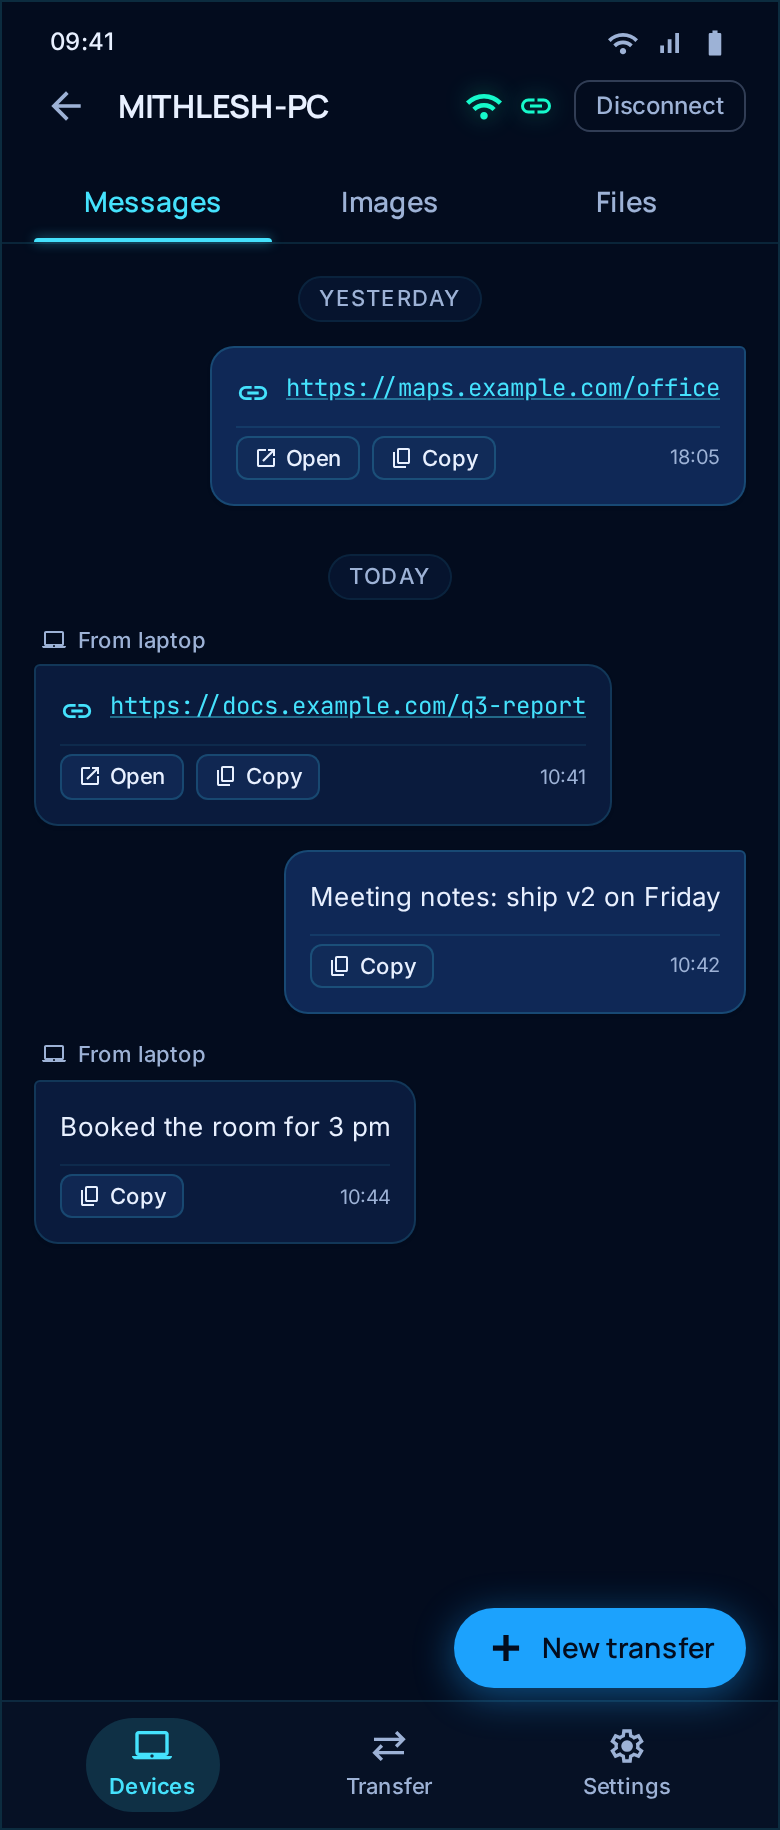
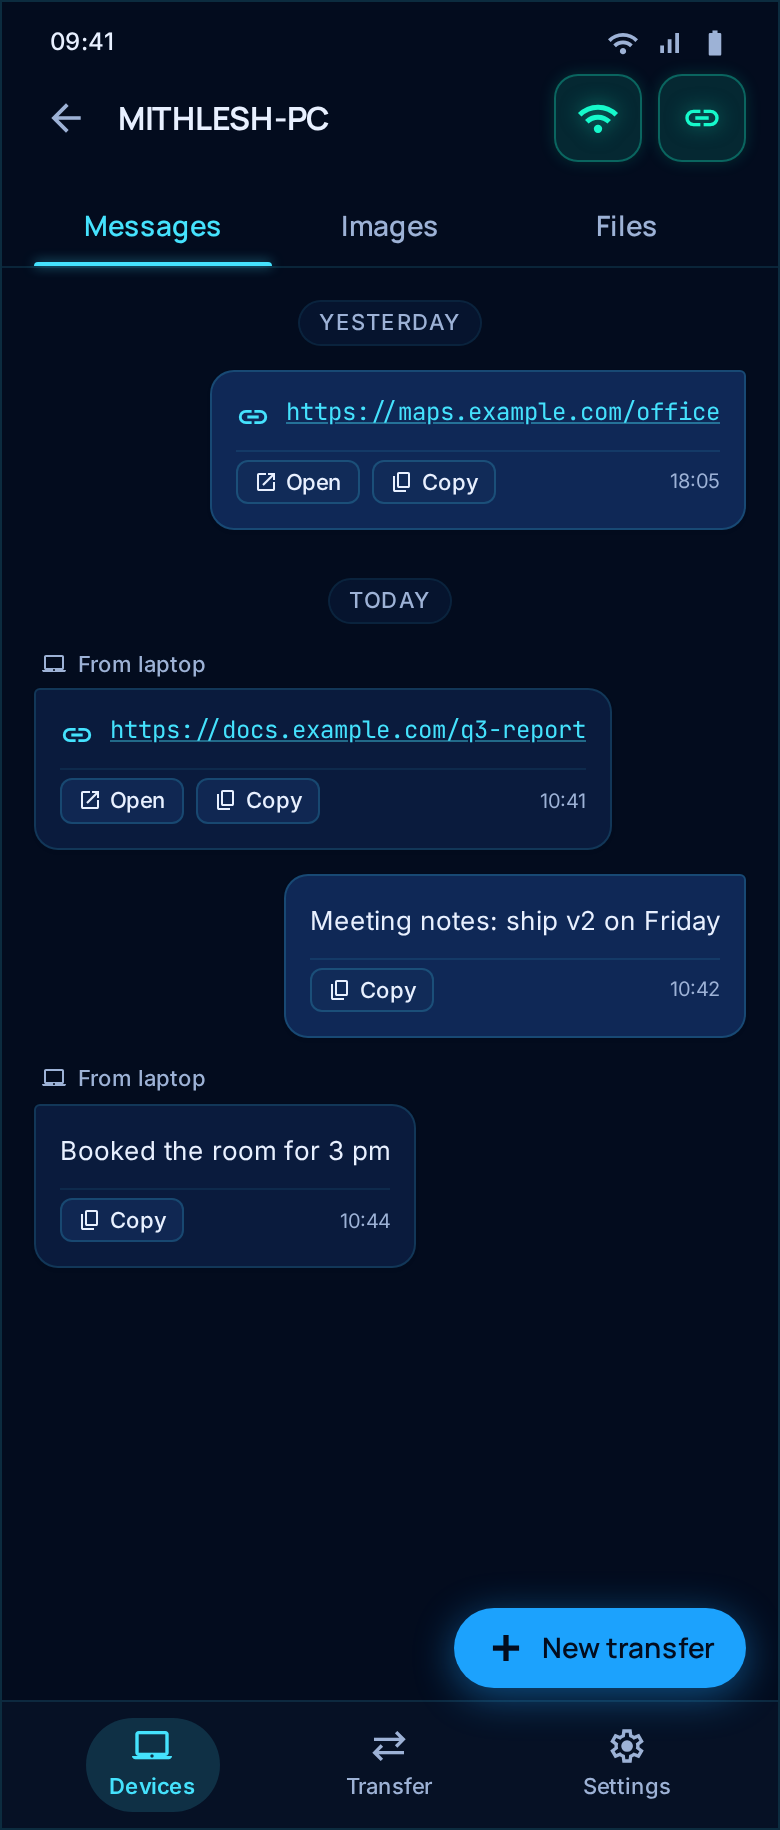
docs: button-style connection controls (v3) for Devices list and Messages
Adds the v3 exports, the per-screen status of the icon-button pass with a
ready-to-use prompt, and moves superseded ids to the superseded table.

diff --git a/docs/design/README.md b/docs/design/README.md
@@ -29,7 +29,7 @@ Bottom tab bar on every phone screen: **Devices | Transfer | Settings**. Tapping
 
 | Screen | Theme | Stitch id | PNG |
 |---|---|---|---|
-| Devices: laptops list (3 states: connected / paired / not paired) | dark | `a3baf43c392c4af69c08fbef4dff1c10` | `screens/android-devices-list.png` |
+| Devices: laptops list (connected / Tailscale route / not paired), **icon buttons (v3)** | dark | `a83b6859ea9b45a89a5e70045cdf0ece` | `screens/android-devices-list.png` |
 | Devices: laptops list | light | `0d5b5a2b06cc4139ba9bd84b4931a2cb` | `screens/android-devices-list-light.png` |
 | Devices: empty state ("Looking for your laptop...") | dark | `3241560b717e4fd99999761d013a1553` | `screens/android-devices-empty.png` |
 | Add laptop by address (bottom sheet) | dark | `06453225d7854d828481c32b77335b21` | `screens/android-add-by-address.png` |
@@ -39,7 +39,7 @@ Bottom tab bar on every phone screen: **Devices | Transfer | Settings**. Tapping
 | Pairing: expired | dark | `ca1a29414b2743e6b12df7c939c3073e` | `screens/android-pairing-expired.png` |
 | Problem: not paired anymore (Re-pair / Forget) | dark | `518c615180084b249caf7e13176121b4` | `screens/android-not-paired-anymore.png` |
 | Problem: laptop identity changed | dark | `a5c9f90052ab41f9859e505354b10e80` | `screens/android-identity-changed.png` |
-| Laptop detail: Messages (connected) | dark | `b32a29cf1a9e4dc695edddfbe2b61fd9` | `screens/android-detail-messages.png` |
+| Laptop detail: Messages (connected), **icon buttons (v3)** | dark | `f22d86df4f0d4e32916d00290957f80b` | `screens/android-detail-messages.png` |
 | Laptop detail: Images (connected) | dark | `0c348cf5efc440a28e6891c701404a0d` | `screens/android-detail-images.png` |
 | Laptop detail: Images, empty | dark | `0ea25c9867dd4afa86f7f60e499a7399` | `screens/android-detail-images-empty.png` |
 | Laptop detail: Files (with a file mid-transfer) | dark | `cb5821b940e54a358e500564c798c620` | `screens/android-detail-files.png` |
@@ -62,13 +62,36 @@ Bottom tab bar on every phone screen: **Devices | Transfer | Settings**. Tapping
 | Devices (paired phones, Revoke) | dark | `e8153d85374f4d659e30de9ba57d3919` | `screens/laptop-devices.png` |
 | Devices | light | `26c01a1608fd4af29978d845a4493b58` | `screens/laptop-devices-light.png` |
 
-## Icon-button pass (header connection controls)
+## Icon-button pass (header connection controls): status
 
-The connection-controls spec in `.stitch/DESIGN.md` §6 is the target. Status of each phone screen that shows connection state:
+Target spec: [`.stitch/DESIGN.md`](../../.stitch/DESIGN.md) §6 (two rounded 44–48 dp icon buttons, link = connect/disconnect action replacing the text button, no status words, green = on / grey = off, "via Tailscale" only as a tooltip).
 
-| Screen | State |
+| Screen | Header / row controls |
 |---|---|
-| Devices list (dark, light), pairing waiting / approved, laptop detail (Messages, Images, Files and their empty states, not connected), New transfer text | see the "Header status" list at the bottom of this file |
+| Devices list, dark (`a83b6859…`) | **v3 done.** Row buttons for all three states; the Tailscale row shows Wi-Fi grey and link green; pairing state moved into the subtitle (`100.101.102.103 · Paired`) so no status text sits next to the icons |
+| Laptop detail: Messages (`f22d86df…`) | **v3 done** (both ON) |
+| Laptop detail: Images, Images empty, Files, Files empty | v2: two small icons plus a text `Disconnect` button. **Still to convert to v3 (both ON)** |
+| Laptop detail: not connected | v2: two small OFF icons plus a text `Connect` button. **Still to convert to v3 (both OFF, link = tap to connect).** The v3 generation timed out and was not confirmed in Stitch |
+| Laptop detail: Tailscale route | **Not created.** Wi-Fi OFF, link ON, no visible "via Tailscale" text. The generation timed out (the Devices list v3 already shows the Tailscale row pattern) |
+| Devices list, light (`0d5b5a2b…`) | v2 icons with status words `Paired` / `Not paired` beside them. **Still to convert to v3** |
+| Pairing waiting (Wi-Fi ON, link OFF), Pairing approved (both ON) | v2 small icons (no text button). **Still to convert to button containers** |
+| New transfer: Text | still shows the name chip with a mint dot. **Still to convert** (name + the two buttons) |
+| Devices empty, Add by address, pairing denied / expired, problem states, Settings, Transfer not connected | no connection state shown in the header. Add by address still lacks the dimmed tab bar behind its sheet |
+
+The laptop web UI is approved and untouched.
+
+Working prompt for one screen (single change, as a `generate_variants` of the screen, or the same text at the end of a full `generate_screen_from_text` prompt):
+
+```
+Keep everything exactly the same EXCEPT the top app bar controls. Remove the outlined "Disconnect" text
+button and any status words. On the right of the app bar show TWO icon BUTTONS side by side, each a
+rounded-square button container (12px radius, 44dp x 44dp touch target, subtle filled background, a soft
+ring hinting the pressed state): (1) a Wi-Fi status button with the Wi-Fi icon; (2) a link ACTION button
+with the link icon (two chain links) that disconnects when tapped and replaces the old Disconnect button.
+ON = solid mint #16F9CB glyph on a mint-tinted container rgba(22,249,203,0.12) with a hairline mint border.
+OFF = outlined grey #6B7FA3 glyph with a diagonal slash in a transparent container with a grey border.
+Labels: "Wi-Fi: on|off", "Linked to laptop: on|off. Tap to disconnect|connect". No text next to the buttons.
+```
 
 ## Superseded screens (still in the project)
 
@@ -76,6 +99,8 @@ Stitch has no delete tool, so earlier iterations remain in the project. Do not i
 
 | Id | What it was | Replaced by |
 |---|---|---|
+| `a3baf43c392c4af69c08fbef4dff1c10` | Devices list with small icons and text pairing status (v2) | `a83b6859…` |
+| `b32a29cf1a9e4dc695edddfbe2b61fd9` | laptop detail Messages with small icons plus a text Disconnect button (v2) | `f22d86df…` |
 | `0256a34dbb6145bd9f5916021b32c16f` | first Devices list (invented "MDNS", port and "Mesh" details) | `a3baf43c…` |
 | `1c2a89cd85044fb588899d9c6a8cdeae` | Devices list with details removed but "Connected" word kept | `a3baf43c…` |
 | `5bfc3bf76e4d4ae1a36dc734e7384ad9` | light Devices list with text status | `0d5b5a2b…` |

diff --git a/CHANGELOG.md b/CHANGELOG.md
@@ -12,6 +12,9 @@ Newest first. Every working day's changes are recorded here and in the affected 
 ### Changed
 - Design decisions taken from user review (recorded in `docs/decisions.md`): connection state is two icon buttons (Wi-Fi status + link action) with no status words, green = on / grey = off; tapping a laptop opens a detail screen with history split into Messages / Images / Files and a "New transfer" flow; the Transfer tab is a shortcut to the connected laptop's detail.
 
+### Partially done
+- **Icon-button connection controls (v3)** applied to the Devices list (dark) and laptop detail Messages; the remaining phone screens still show the previous small-icon header and are listed with the exact prompt in `docs/design/README.md`.
+
 ### Notes
 - Stitch limitations found and documented: `edit_screens` does not persist, `generate_variants` keeps only the first change and returns one variant per call, listing lags after generation. Superseded iterations remain in the Stitch project (no delete tool) and are listed in `docs/design/README.md`.
 
